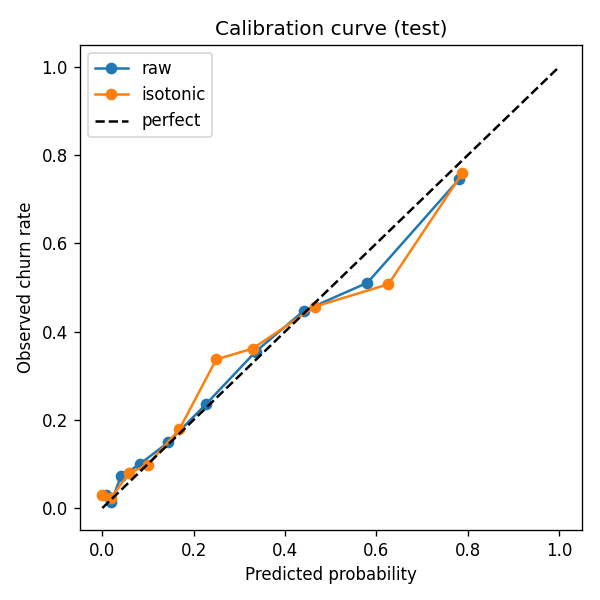
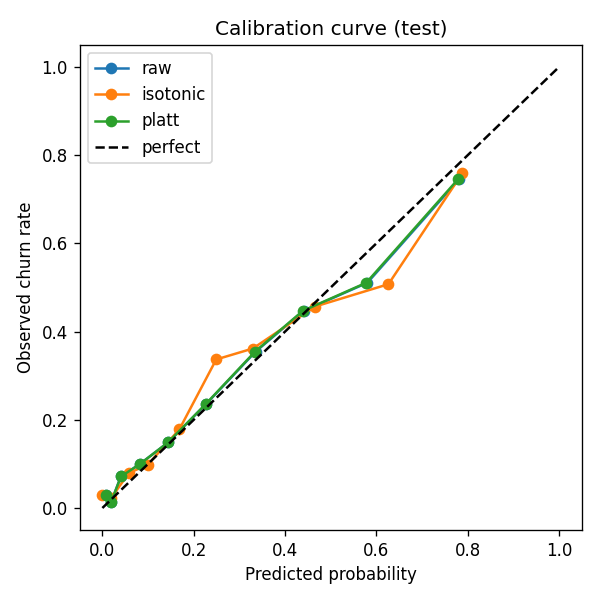
Enhance churn model: Add Platt calibration and update logging metrics

diff --git a/src/churn.py b/src/churn.py
@@ -1,4 +1,4 @@
-"""XGBoost churn model + isotonic calibration, logged to MLflow."""
+"""XGBoost churn model + isotonic and Platt calibration, logged to MLflow."""
 
 from pathlib import Path
 
@@ -7,8 +7,10 @@ import matplotlib
 matplotlib.use("Agg")
 import matplotlib.pyplot as plt  # noqa: E402
 import mlflow  # noqa: E402
+import numpy as np  # noqa: E402
 from sklearn.calibration import calibration_curve  # noqa: E402
 from sklearn.isotonic import IsotonicRegression  # noqa: E402
+from sklearn.linear_model import LogisticRegression  # noqa: E402
 from sklearn.metrics import average_precision_score, brier_score_loss, roc_auc_score  # noqa: E402
 from xgboost import XGBClassifier  # noqa: E402
 
@@ -29,6 +31,11 @@ def metrics(y, p) -> dict:
     }
 
 
+def logit(p) -> np.ndarray:
+    p = np.clip(np.asarray(p), 1e-6, 1 - 1e-6)
+    return np.log(p / (1 - p)).reshape(-1, 1)
+
+
 def main() -> None:
     OUT.mkdir(parents=True, exist_ok=True)
     s = get_splits()
@@ -37,16 +44,23 @@ def main() -> None:
     X_te, y_te = s["test"]
 
     model = XGBClassifier(**PARAMS).fit(X_tr, y_tr)
-    iso = IsotonicRegression(out_of_bounds="clip").fit(model.predict_proba(X_ca)[:, 1], y_ca)
-
+    p_ca = model.predict_proba(X_ca)[:, 1]
     p_raw = model.predict_proba(X_te)[:, 1]
-    p_cal = iso.predict(p_raw)
-    m_raw, m_cal = metrics(y_te, p_raw), metrics(y_te, p_cal)
+
+    iso = IsotonicRegression(out_of_bounds="clip").fit(p_ca, y_ca)
+    platt = LogisticRegression(C=1e6).fit(logit(p_ca), y_ca)
+
+    probs = {
+        "raw": p_raw,
+        "isotonic": iso.predict(p_raw),
+        "platt": platt.predict_proba(logit(p_raw))[:, 1],
+    }
+    results = {name: metrics(y_te, p) for name, p in probs.items()}
 
     fig, ax = plt.subplots(figsize=(5, 5))
-    for p, label in [(p_raw, "raw"), (p_cal, "isotonic")]:
+    for name, p in probs.items():
         frac, mean_p = calibration_curve(y_te, p, n_bins=10, strategy="quantile")
-        ax.plot(mean_p, frac, marker="o", label=label)
+        ax.plot(mean_p, frac, marker="o", label=name)
     ax.plot([0, 1], [0, 1], "k--", label="perfect")
     ax.set_xlabel("Predicted probability")
     ax.set_ylabel("Observed churn rate")
@@ -56,14 +70,14 @@ def main() -> None:
     plt.savefig(OUT / "calibration.png", dpi=120)
 
     mlflow.set_experiment("churn")
-    with mlflow.start_run(run_name="xgb_isotonic"):
+    with mlflow.start_run(run_name="xgb_raw_isotonic_platt"):
         mlflow.log_params(PARAMS)
-        mlflow.log_metrics({f"test_raw_{k}": v for k, v in m_raw.items()})
-        mlflow.log_metrics({f"test_cal_{k}": v for k, v in m_cal.items()})
+        for name, m in results.items():
+            mlflow.log_metrics({f"test_{name}_{k}": v for k, v in m.items()})
         mlflow.log_artifact(str(OUT / "calibration.png"))
 
-    print("TEST raw       :", {k: round(v, 4) for k, v in m_raw.items()})
-    print("TEST calibrated:", {k: round(v, 4) for k, v in m_cal.items()})
+    for name, m in results.items():
+        print(f"TEST {name:9s}:", {k: round(v, 4) for k, v in m.items()})
 
 
 if __name__ == "__main__":
